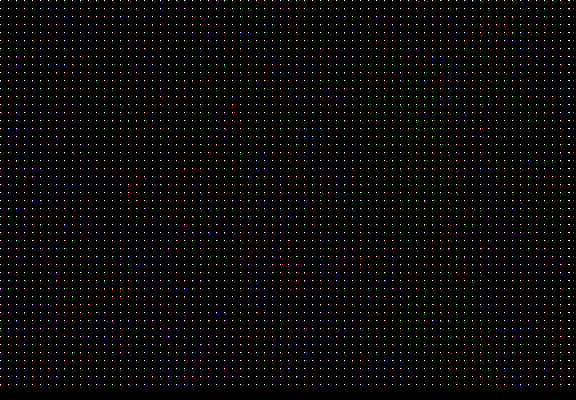
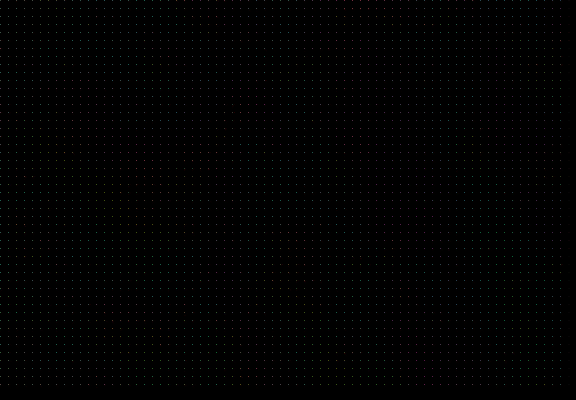
Everything Looks correct now

diff --git a/CS443_Project.m b/CS443_Project.m
@@ -45,7 +45,7 @@ tulipSS = chromaSubsample(tulipYCbCr,[4,2,0]);
 % 3. Apply 2D DCT transform (N=M=8) on Y, Cb, and Cr components (see
 % dctbasis.m)
 N = 8;
-aluDCT = DCT2D(aluYCbCr, N);
+aluDCT = DCT2D(aluSS, N);
 tulipDCT = DCT2D(tulipSS, N);
 
 
@@ -54,7 +54,7 @@ tulipDCT = DCT2D(tulipSS, N);
 
 % 4. Apply quantization using quantization table (Tables 9.1, 9.2) for
 % luminance and chrominance (remove AC components)
-quality = 100;
+quality = 50;
 aluQuant = Quantization(aluDCT,quality,N);
 tulipQuant = Quantization(tulipDCT,quality,N);
 
@@ -68,8 +68,8 @@ aluDequant = DeQuantization(aluQuant,quality,N);
 tulipDequant = DeQuantization(tulipQuant,quality,N);
 
 % Implement and apply the 2D IDCT to the dequantized DCT coefficients
-aluIDCT = IDCT2D(aluDCT,aluSS,N);
-tulipIDCT = IDCT2D(tulipDCT,tulipSS,N);
+aluIDCT = IDCT2D(aluDequant,aluSS,N);
+tulipIDCT = IDCT2D(tulipDequant,tulipSS,N);
 
 %%
 
